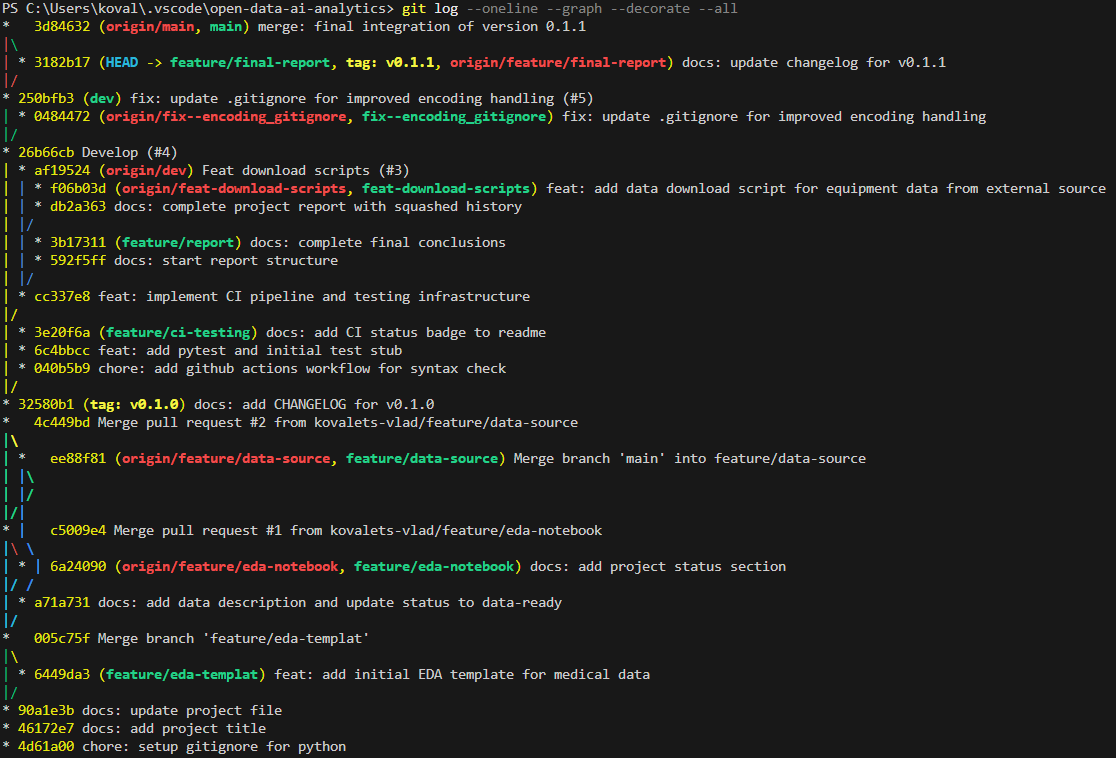
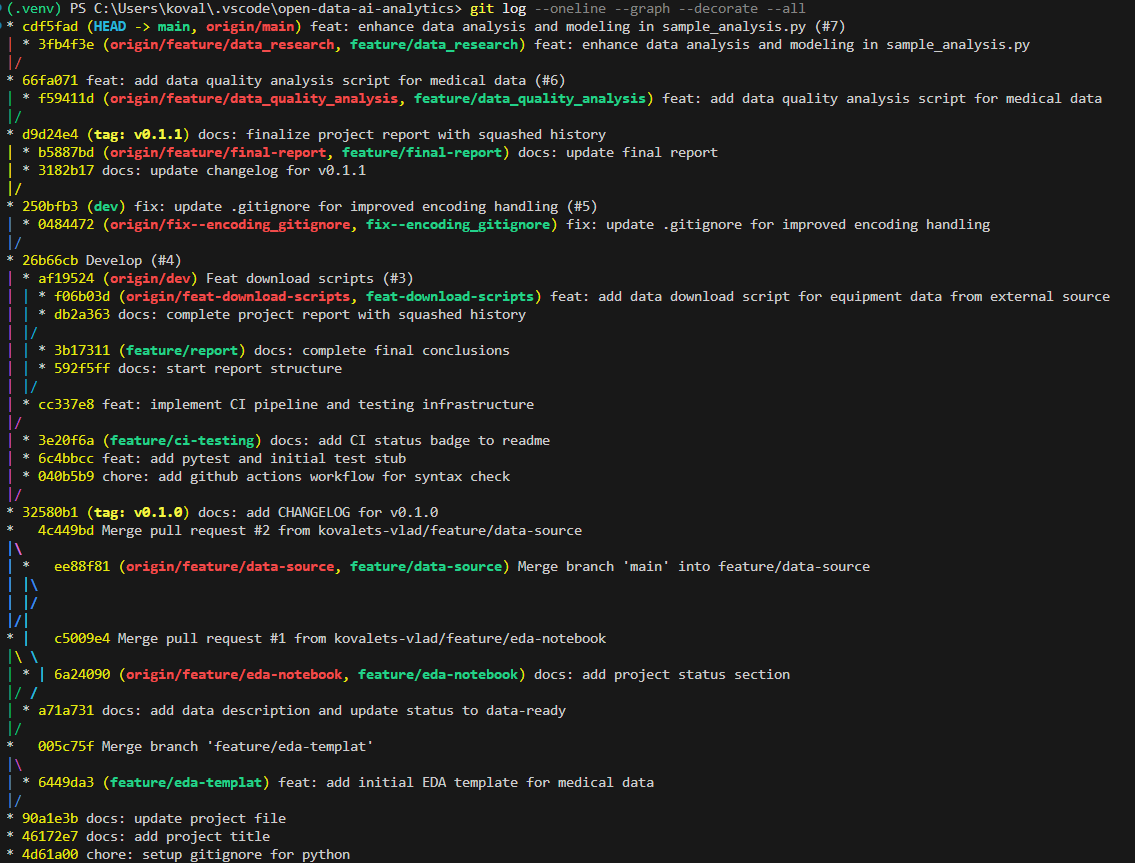
docs: update project report with data analysis and machine learning details

Changed region(s): [[0.0, 0.0, 1.0, 1.0], [0.6398, 0.5765, 0.7616, 0.6069]]

diff --git a/reports/REPORT.md b/reports/REPORT.md
@@ -37,15 +37,25 @@
 - **Скрипт завантаження**: Створено `scripts/get_data.py` з механізмом повторних спроб (retries) для стабільного завантаження датасету у форматі CSV.
 - **.gitignore**: Було вирішено критичну проблему з кодуванням файлу `.gitignore` (UTF-16), що заважало ігноруванню даних. Після перекодування в UTF-8 політика ігнорування працює коректно.
 
-## 6. Релізи
+## 7. Аналіз даних та машинне навчання
+
+На фінальному етапі було реалізовано повний цикл обробки даних (Data Science Pipeline):
+
+- **Data Sanitization**: Розроблено механізм автоматичного очищення "брудних" даних. Використано регулярні вирази (Regex) для очищення фінансових показників від зайвих символів та виправлення форматів розділювачів (кома/крапка).
+- **Перевірка гіпотез**:
+    - Підтверджено кореляцію між віком обладнання та реальним відсотком зносу.
+    - Виявлено найбільш капіталомісткі підгрупи медичних послуг через агрегацію `primaryAmountValue`.
+- **Predictive Analytics**: Побудовано модель на базі алгоритму **Random Forest Regressor** для прогнозування балансової вартості активів. Модель враховує виробника, вік, підгрупу послуг та початкову ціну.
+
+## 8. Релізи
 
 Проєкт має чітке версіонування за допомогою тегів:
 
 - **v0.1.0**: Базова структура проєкту та шаблон EDA.
 - **v0.1.1**: Впровадження CI, скриптів завантаження та виправленої політики ігнорування даних.
-- Усі зміни задокументовано у файлі `CHANGELOG.md`.
+- **v0.1.2**: Повний аналітичний модуль, виправлення критичних помилок типів даних та інтеграція ML-моделі.
 
----
+Усі зміни задокументовано у файлі `CHANGELOG.md`.
 
 ## Посилання на репозиторій
 

diff --git a/CHANGELOG.md b/CHANGELOG.md
@@ -1,5 +1,23 @@
 # Changelog
 
+## [0.1.2] - 2026-02-23
+
+### Added
+
+- Comprehensive data quality audit script (nulls, duplicates, and uniqueness checks).
+- Hypothesis-driven EDA:
+    - Age vs. Wear percentage correlation.
+    - Asset structure analysis by service subgroups.
+    - Top manufacturers inventory distribution.
+- Predictive modeling: Random Forest Regressor for estimating asset book value.
+- Automated data cleaning pipeline (handling missing values as "Unknown").
+
+### Fixed
+
+- `TypeError` in financial columns by implementing a regex-based numeric conversion (stripping non-numeric characters and fixing decimal commas).
+- `AttributeError` in date processing by enforcing `datetime` type casting before accessing `.dt` properties.
+- Column mapping issues: aligned script logic with actual dataset schema (`primaryAmountValue`, `amortizationAmountValue`).
+
 ## [0.1.1] - 2026-02-17
 
 ### Added
